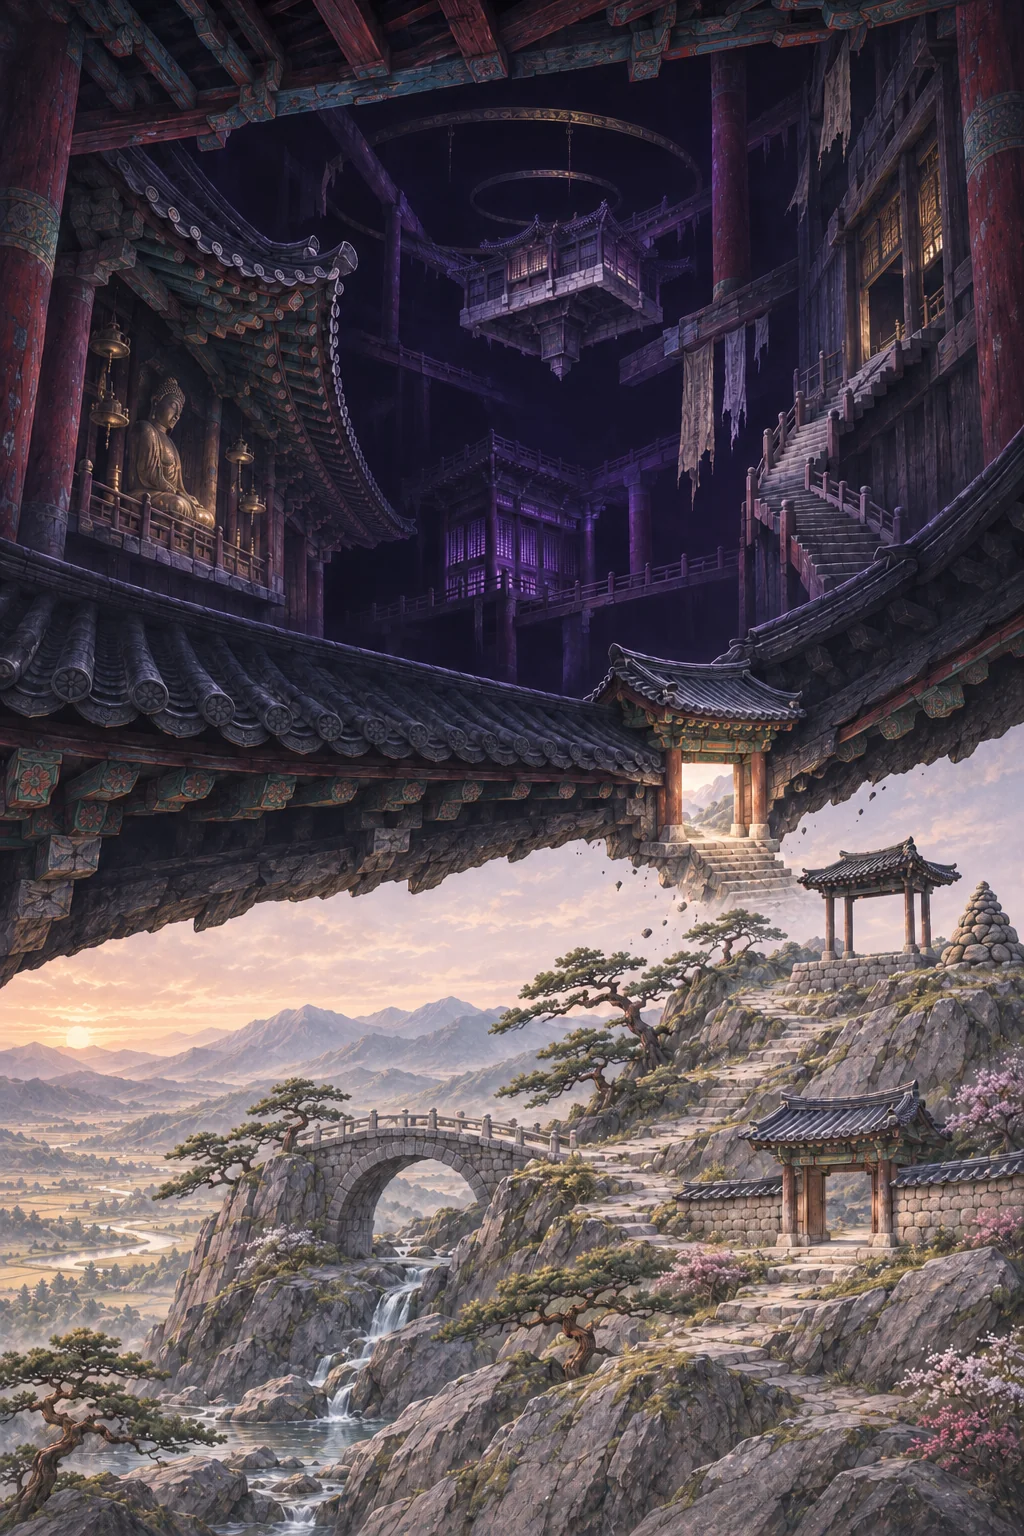
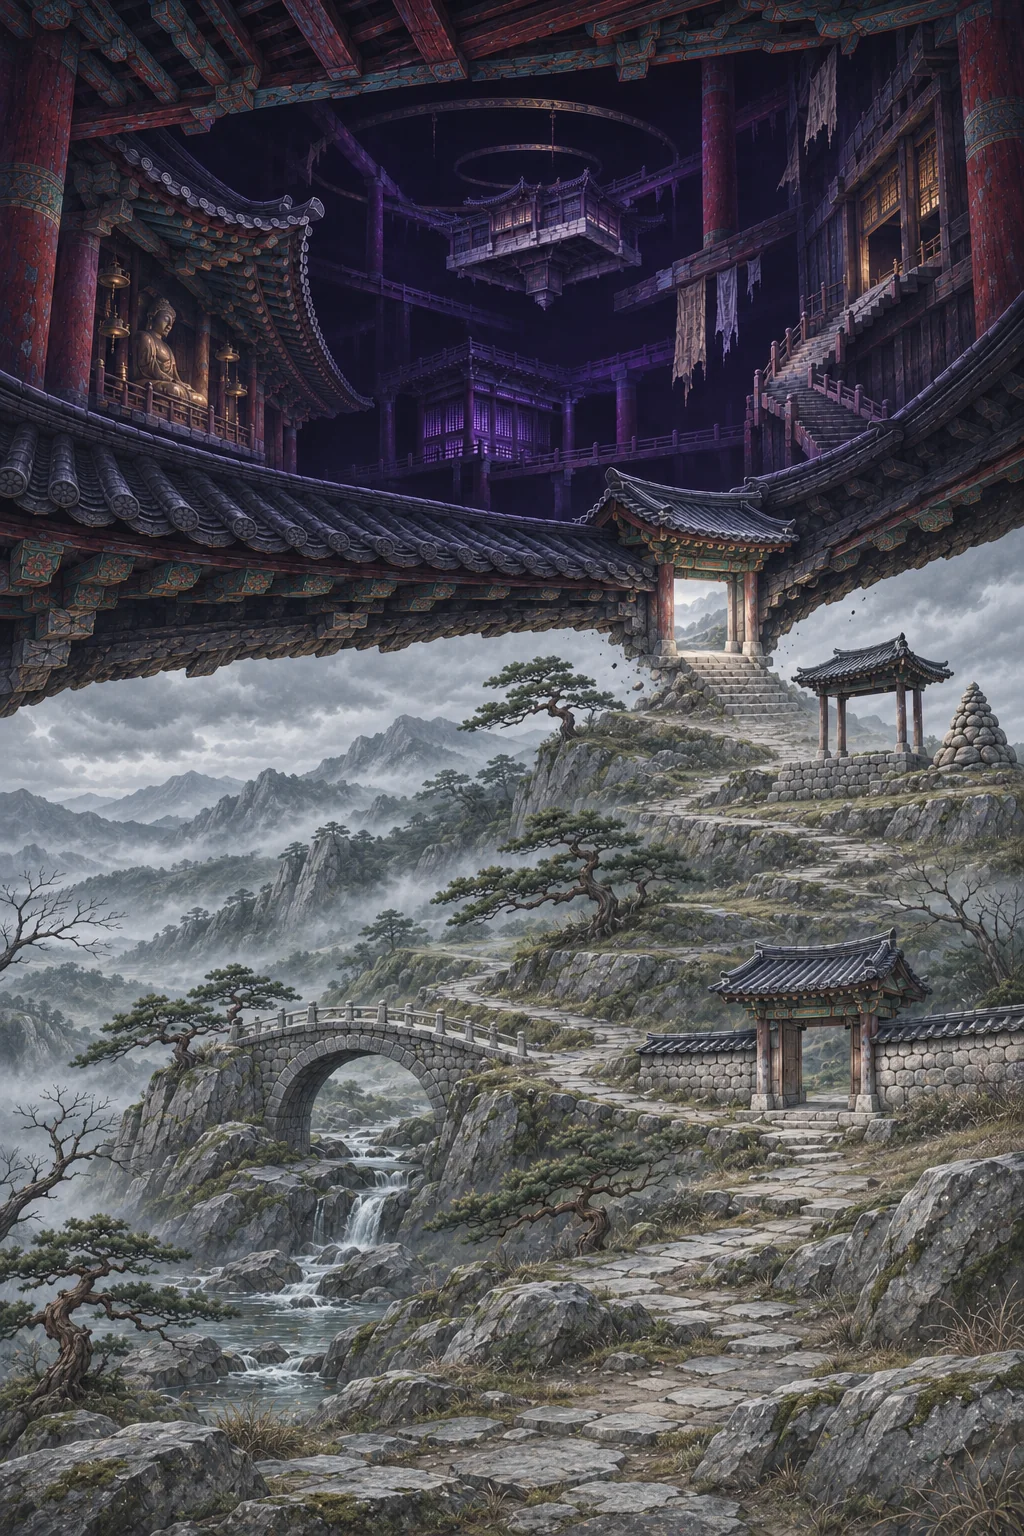
art(journey): widen the overcast foothills below Mumyeongsa

diff --git a/game/docs/planning/act6-finale-20261125/HONRO-ACT6-JOURNEY-MAP.ko.md b/game/docs/planning/act6-finale-20261125/HONRO-ACT6-JOURNEY-MAP.ko.md
@@ -1,6 +1,6 @@
 # 6막 여정첩: 무명사, 접힌 길
 
-무명사 지도를 장 순서대로 오르는 한 줄로 그리지 않는다. 숲과 산문, 돌단과 석교가 있는 바깥은 지도에서 같은 자리에 남는다. 사찰 내부에서는 거리가 아니라 **어떤 곳이 어느 곳으로 이어지는지**를 기록한다. 안팎을 오가는 구간은 점선, 같은 편에 남는 구간은 실선이다. 한 화폭을 명확한 산문 문턱으로 나눈다. 바깥에는 옅은 새벽 하늘과 연결된 산세, 정방향 석교와 나무를 둔다. 안쪽에는 하늘·산 능선·바깥의 옅은 안개를 사용하지 않는다. 대신 닫힌 목조 법당의 기둥·처마·천장, 틀어진 중력과 닿을 수 없는 내부의 깊이를 암청·보랏빛으로 구분한다. 6-7과 6-9에서 방어선과 석교가 다시 읽히고, 마지막에는 열어 둔 산문으로 돌아온다.
+무명사 지도를 장 순서대로 오르는 한 줄로 그리지 않는다. 숲과 산문, 돌단과 석교가 있는 바깥은 지도에서 같은 자리에 남는다. 사찰 내부에서는 거리가 아니라 **어떤 곳이 어느 곳으로 이어지는지**를 기록한다. 안팎을 오가는 구간은 점선, 같은 편에 남는 구간은 실선이다. 한 화폭을 명확한 산문 문턱으로 나눈다. 안쪽은 화면 위 약 40%, 바깥은 아래 약 60%에 둔다. 바깥에는 노을 대신 흐린 회청색 하늘과 회녹색 산세, 정방향 석교와 바람 맞은 소나무를 둔다. 무너진 세계라는 긴장은 남기되 색뿐 아니라 실제 지형과 하늘로 안쪽과 구분한다. 안쪽에는 하늘·산 능선·바깥의 옅은 안개를 사용하지 않는다. 대신 닫힌 목조 법당의 기둥·처마·천장, 틀어진 중력과 닿을 수 없는 내부의 깊이를 암청·보랏빛으로 구분한다. 6-7과 6-9에서 방어선과 석교가 다시 읽히고, 마지막에는 열어 둔 산문으로 돌아온다.
 
 - 기존 여정첩의 막 선택, 현재 길목, 완료한 위치, 드래그·확대·맞춤과 길목 상세를 유지한다. 5막 마지막 장 완료 후 열린다. 배경은 한 장의 전용 지리 일러스트, 점·경로·가림과 MOB/PC 조작은 기존 여정첩 UI와 분리한다.
 - 무명사 진행 위치는 기존 장간 체크포인트/완료 영수증을 읽기만 한다. 숨겨진 장의 제목을 노출하지 않으며 현재 길목의 사건 결말은 완료 뒤에만 읽을 수 있다.
